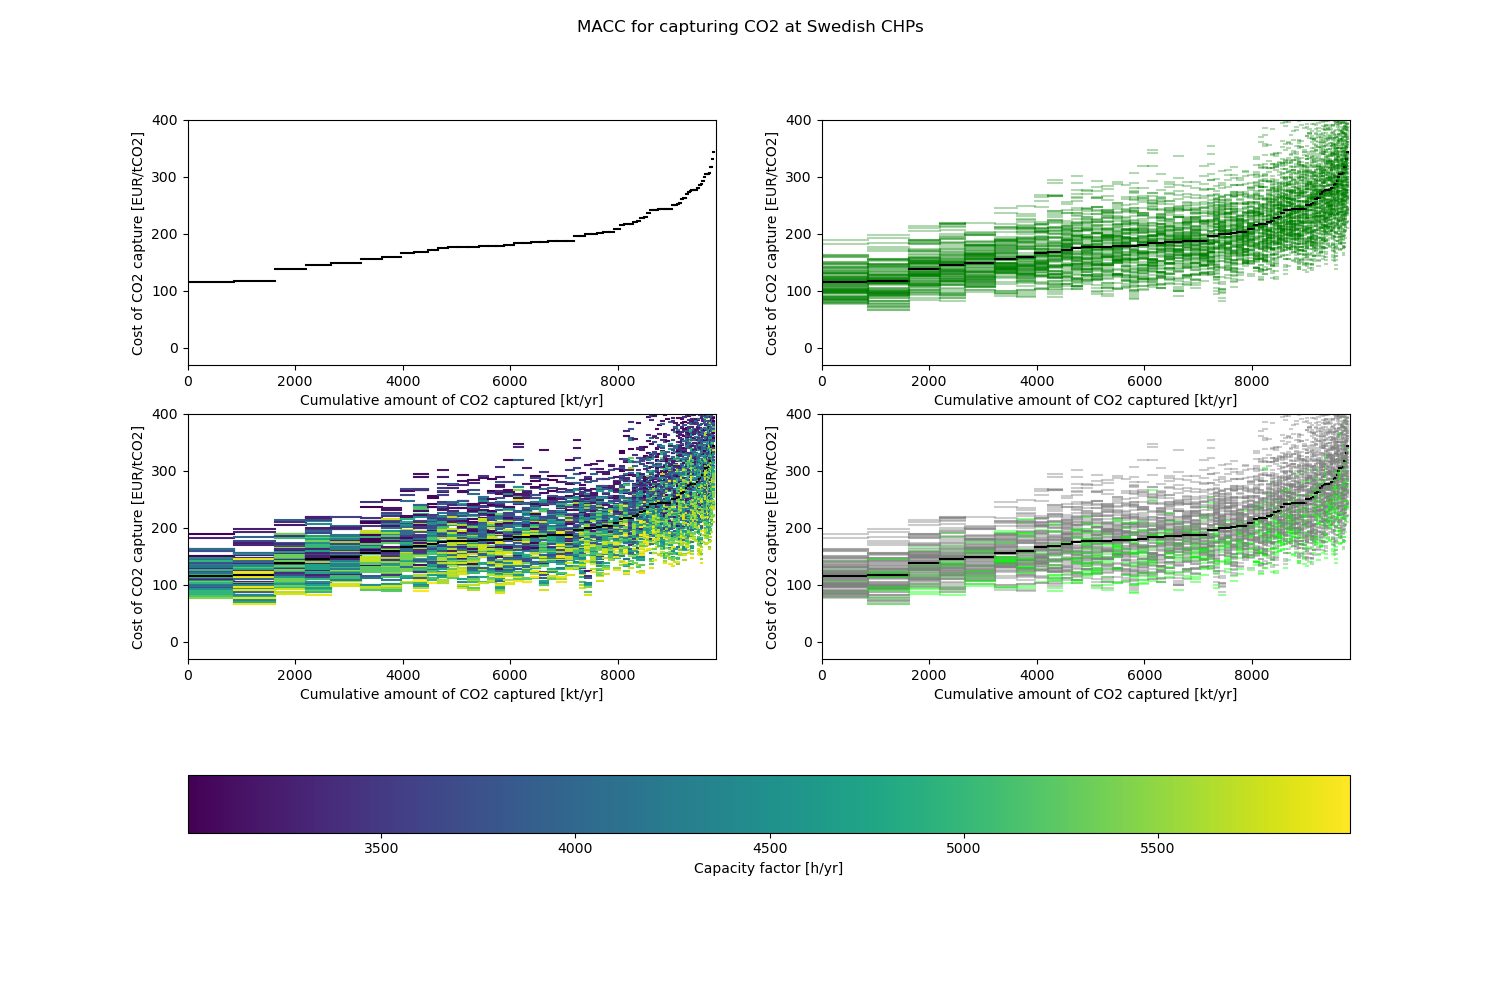
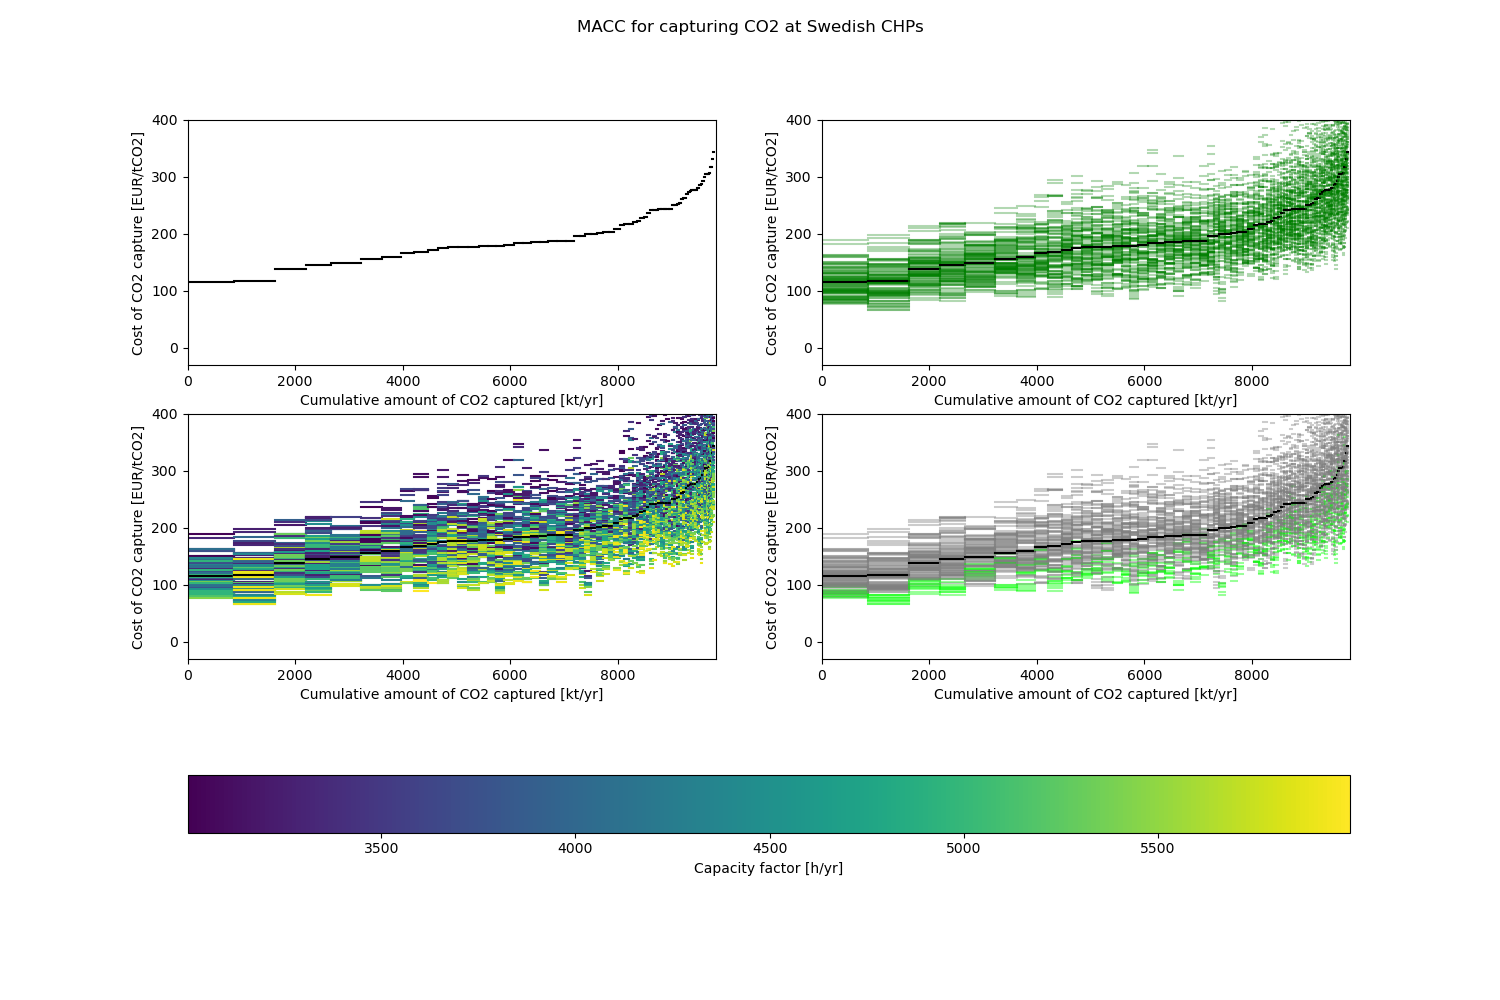
My constrained PRIM works!

Changed region(s): [[0.552, 0.465, 0.92, 0.62]]

diff --git a/prim_constrained.py b/prim_constrained.py
@@ -1,0 +1,225 @@
+"""
+Constrained PRIM algorithm for interpretable scenario discovery.
+
+This implementation takes the non-constrained uncertainty dimensions as an argument,
+which allows for better control of the peeling trajectories analyzed.
+
+Author: Oscar Stenström
+Date: 2023-12-30
+"""
+import numpy as np
+import matplotlib.pyplot as plt
+import pandas as pd
+import copy
+
+class PrimedData:
+    def __init__(self, x, y):
+        self.x = x
+        self.y = y
+        self.y_name = y.name
+        self.data = pd.concat([x, y], axis=1)
+        self.limits = {}
+        self.find_limits()
+
+    def find_limits(self):
+        for feature, values in self.x.items():
+            if self.is_numeric(self.x[feature]):
+                min_value = values.min()
+                max_value = values.max()
+                self.limits[feature] = {'min': min_value, 'max': max_value, 'slicesz': abs(max_value-min_value)*0.05}
+            elif self.is_categorical(self.x[feature]):
+                categories = values.unique()
+                self.limits[feature] = {'categories': categories}
+    
+    def is_numeric(self,column):
+        return pd.api.types.is_numeric_dtype(column)
+    def is_categorical(self,column):
+        return column.dtype == 'O'
+
+
+class Box:
+    def __init__(self, id=None, lims={}, coverage=None, density=None, mass=None, mean=None):
+        self.id = id
+        self.lims = lims
+        self.n_lims = len(self.lims)
+        self.coverage = coverage
+        self.density = density
+        self.mass = mass
+        self.mean = mean
+
+    def print_info(self):
+        print(f"Box ID: {self.id}")
+        print("Limits:")
+        print("{:<20}".format("Feature:"), end="")
+        all_keys = set(key for limits in self.lims.values() for key in limits.keys())
+        for key in all_keys:
+            print("{:<15}".format(key), end="")
+        print()
+        for feature, limits in self.lims.items():
+            print("{:<20}".format(feature), end="")  
+            for key in all_keys:
+                value = limits.get(key, "N/A")    
+                if isinstance(value, list):
+                    formatted_value = ", ".join(map(lambda x: f"{float(x):.2f}" if x.replace('.', '', 1).isdigit() else str(x), value))
+                elif isinstance(value, (int, float)):
+                    formatted_value = f"{float(value):.2f}"
+                else:
+                    formatted_value = str(value)   
+                print("{:<15}".format(formatted_value), end="")  
+            print()
+        print(f"Coverage: {float(self.coverage):.2f}")
+        print(f"Density: {float(self.density):.2f}")
+        print()
+
+
+    def calculate(self, Data):
+        # Find the data subset of this box by filtering on lims
+        df = Data.data
+        num_mask = pd.Series(True, index=df.index)
+        for feature, values in self.lims.items():
+            if 'min' in values:
+                num_mask &= (df[feature] >= values['min'])
+            if 'max' in values:
+                num_mask &= (df[feature] <= values['max'])
+        cat_mask = pd.Series(True, index=df.index)
+        for feature, values in self.lims.items():
+            if 'categories' in values:
+                if isinstance(values['categories'], list):
+                    cat_mask &= df[feature].isin(values['categories'])
+                else:
+                    cat_mask &= df[feature].isin([values['categories']])
+        final_mask = num_mask & cat_mask
+        subset = df[final_mask]
+
+        # Calculate properties
+        cases_of_interest = df[df[Data.y_name] == 1]
+        subset_of_interest = subset[subset[Data.y_name] == 1]
+
+        self.coverage = len(subset_of_interest) / len(cases_of_interest)
+        if len(subset) != 0:
+            self.density = len(subset_of_interest) / len(subset)
+        else:
+            self.density = 0
+        self.mass = len(subset)
+        self.mean = self.density
+
+def prim_recursive(Data, box, peeling_trajectory, max_iterations=100, constrained_to=None, objective_function="LENIENT1"): 
+
+    peeling_trajectory.append(box)
+    count = len(peeling_trajectory)
+
+    # If unconstrained, consider all x-features
+    if constrained_to == None:
+        constrained_to = list(Data.x.columns)
+
+    # Produce candidate boxes
+    box_candidates = []
+    for feature,values in Data.x.items(): 
+
+        if feature not in constrained_to:
+            continue
+
+        if Data.is_numeric(Data.x[feature]):
+            #Get the limits based on previous box.
+            if feature in box.lims:
+                low_dict = copy.deepcopy(box.lims)
+                high_dict = copy.deepcopy(box.lims)
+
+                lims_low = box.lims[feature]["min"] + Data.limits[feature]["slicesz"]
+                lims_high = box.lims[feature]["max"] - Data.limits[feature]["slicesz"]
+
+                low_dict[feature] = {"min":lims_low,"max":box.lims[feature]["max"]}
+                high_dict[feature] = {"min":box.lims[feature]["min"],"max":lims_high}
+
+            if feature not in box.lims:
+                low_dict = copy.deepcopy(box.lims)
+                high_dict = copy.deepcopy(box.lims)
+                
+                lims_low = Data.limits[feature]["min"] + Data.limits[feature]["slicesz"]
+                lims_high = Data.limits[feature]["max"] - Data.limits[feature]["slicesz"]
+                
+                low_dict[feature] = {"min":lims_low,"max":Data.limits[feature]["max"]}
+                high_dict[feature] = {"min":Data.limits[feature]["min"],"max":lims_high}
+                
+            box_low = Box(id=count, lims=low_dict)
+            box_high = Box(id=count, lims=high_dict)
+            box_low.calculate(Data)
+            box_high.calculate(Data)
+            box_candidates.append(box_low)
+            box_candidates.append(box_high)
+        
+        if Data.is_categorical(Data.x[feature]):
+            lims_dict = copy.deepcopy(box.lims)
+            #If previous box is restricted in all categories, I should add all categories. So I later can remove them...
+            if feature not in lims_dict: #I think ths only occurs for the first box? 
+                lims_dict[feature] = {"categories":[]}
+                for category in Data.limits[feature]['categories']:
+                    # print("Storing", category, " in new box dict")
+                    lims_dict[feature]["categories"].append(category)
+
+            # At this point, the lims_dict will always have 1-3 categories in this particular feature. I think.
+            for category in lims_dict[feature]["categories"]:
+                limsi_dict = copy.deepcopy(lims_dict)
+                limsi_dict[feature]["categories"].remove(category)
+                boxi = box_low = Box(id=count, lims=limsi_dict)
+                boxi.calculate(Data)
+                box_candidates.append(boxi)
+
+    # Candidate boxes will be evaluated against chosen criterion
+    def criterion(candidate, box):
+        if objective_function == "LENIENT1":
+            return                (candidate.density - box.density) / (box.mass - candidate.mass)
+        if objective_function == "LENIENT2":
+            return candidate.mass*(candidate.density - box.density) / (box.mass - candidate.mass)
+        if objective_function == "ORIGINAL": #TODO: Buggy, produces boxes with decreasing densities. Check what candidates are produced and chosen below!
+            return                (candidate.density - box.density)
+
+    # Update to the box that maximizes the chosen objective
+    objective = []
+    for candidate in box_candidates:
+        if candidate.mass < box.mass:
+            objective.append( criterion(candidate,box) )
+    max_index = np.argmax(objective)
+    box = box_candidates[max_index]
+    # print("Best box of iteration", max_iterations)
+    # box.print_info()
+
+    # Stop if not improving objective
+    if box.density==1 or max(objective)<=0 or max_iterations==0:
+        return peeling_trajectory
+
+    return prim_recursive(Data, box, peeling_trajectory, max_iterations-1, constrained_to=constrained_to, objective_function=objective_function)
+
+def main():
+    # Below is an example if constrained PRIM usage
+    data = pd.read_csv("test.csv", index_col=False)
+    x = data.iloc[:, 1:11]
+    x.iloc[:, 0] = "FOAK"
+    x.iloc[3:100, 0] = "NOAK" 
+    x.iloc[100:200, 0] = "skoa" 
+    y = data.iloc[:, 15]
+
+    Data = PrimedData(x,y)
+    peeling_trajectory = []
+    box = Box(id=0)
+    box.calculate(Data)
+
+    peeling_trajectory = prim_recursive(Data,box,peeling_trajectory,max_iterations=40, constrained_to=None, objective_function="LENIENT2")
+    # peeling_trajectory = prim_recursive(Data,box,peeling_trajectory,max_iterations=40, constrained_to=["Cellulosic cost", "Biomass backstop price", "Pricing"], objective_function="LENIENT2")
+    peeling_trajectory[20].print_info()
+
+    # Plotting
+    x_values = [box.coverage for box in peeling_trajectory]
+    y_values = [box.density for box in peeling_trajectory]
+    colors = [box.n_lims for box in peeling_trajectory]
+    colors = np.array(colors, dtype=int)
+    num_colors = len(set(colors))
+    cmap = plt.cm.get_cmap('tab10', num_colors)
+    plt.scatter(x_values, y_values, c=colors, cmap=cmap, alpha=0.8)
+    plt.xlabel('Coverage')
+    plt.ylabel('Density')
+    plt.colorbar(label='Number of Limits')
+    plt.show()
+
+if __name__ == "__main__":
+    main()

diff --git a/SD.py b/SD.py
@@ -1,7 +1,9 @@
 import numpy as np
 import matplotlib.pyplot as plt
 import pandas as pd
-from ema_workbench.analysis import prim
+from ema_workbench.analysis import regional_sa
+# from ema_workbench.analysis import prim
+from prim_constrained import PrimedData, Box, prim_recursive
 
 # Perform SD:
 # Select subset of moderate size, i.e. where capture cost is below 250EUR/t:
@@ -25,16 +27,42 @@ for name in unique_names:
 print(scenario_subset.shape)
 print(scenario_subset.head())
 
-
-
 x = experiments.iloc[:, 0:22]
 y = outcomes["cost_specific"] < 180
+y = y.astype(int)
+
+# Pre-made PRIM:
 # y = data.iloc[:, 15].values
-prim_alg = prim.Prim(x, y, threshold=0.8, peel_alpha=0.1)
-box1 = prim_alg.find_box()
-box1.show_tradeoff()
-box1.inspect(4, style="graph")
-box1.inspect(8, style="graph")
-box1.inspect(16, style="graph")
+# prim_alg = prim.Prim(x, y, threshold=0.8, peel_alpha=0.1)
+# box1 = prim_alg.find_box()
+# box1.show_tradeoff()
+# box1.inspect(4, style="graph")
+# box1.inspect(8, style="graph")
+# box1.inspect(16, style="graph")
+
+# My own PRIM:
+# fig = regional_sa.plot_cdfs(x, y)
+Data = PrimedData(x, y)
+peeling_trajectory = []
+box = Box(id=0)
+box.calculate(Data)
+peeling_trajectory = prim_recursive(Data, box, peeling_trajectory, max_iterations=40, constrained_to=["duration", "cheat"], objective_function="LENIENT1")
+peeling_trajectory[3].print_info()
+peeling_trajectory[9].print_info()
+peeling_trajectory[24].print_info()
+
+# Plotting PRIM trajectory
+x_values = [box.coverage for box in peeling_trajectory]
+y_values = [box.density for box in peeling_trajectory]
+colors = [box.n_lims for box in peeling_trajectory]
+colors = np.array(colors, dtype=int)
+num_colors = len(set(colors))
+cmap = plt.cm.get_cmap('cool', num_colors)
+plt.scatter(x_values, y_values, c=colors, cmap=cmap, alpha=0.8, label='Algorithm 1')
+plt.xlabel('Coverage')
+plt.ylabel('Density')
+plt.xlim(0, 1.2)
+plt.ylim(0, 1.2)
+plt.colorbar(label='Number of Limits')
 
 plt.show()

diff --git a/macc.py b/macc.py
@@ -44,7 +44,7 @@ instructions = {}
 instructions[axs[0]] = {"nlines":"single"}
 instructions[axs[1]] = {"nlines":"multiple", "color":"green", "alpha":0.3, "extremes":"yes"}
 instructions[axs[2]] = {"nlines":"multiple", "colormap":"duration"}
-instructions[axs[3]] = {"nlines":"multiple", "colormap":"duration", "scenario":5500}
+instructions[axs[3]] = {"nlines":"multiple", "colormap":"duration", "scenario":4200} #NOTE: MAYBE PLACE cheat HERE?
 
 x_start = 0
 
@@ -74,7 +74,7 @@ for ax, instruct in instructions.items():
                     alpha = instruct["alpha"]
 
                 if "scenario" in instruct:
-                    if rectangle.experiments[feature][i] >= instruct["scenario"]:
+                    if rectangle.experiments[feature][i] >= instruct["scenario"] and rectangle.experiments["cheat"][i] < 76: #NOTE: THIS IS MY PRIM SCENARIO FOUND
                         color_i = "lime"
                     else:
                         color_i = "grey"
